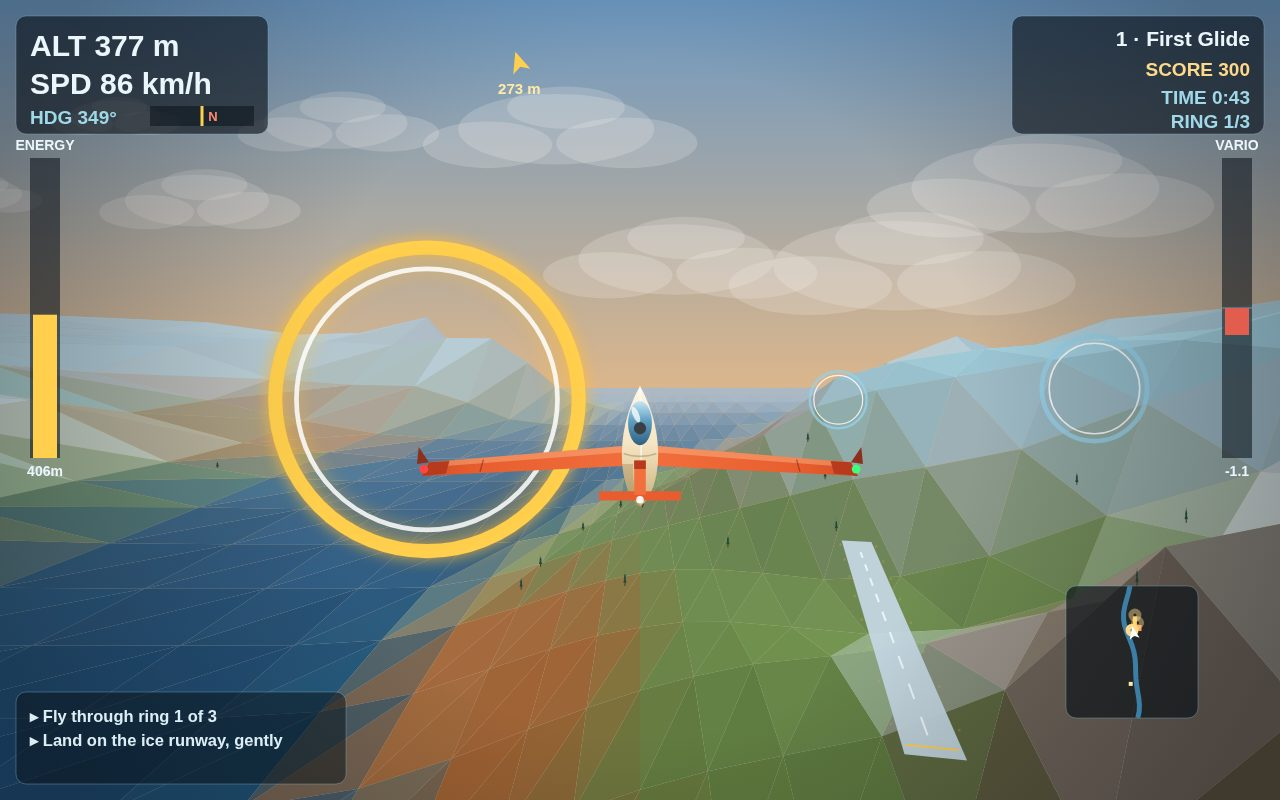
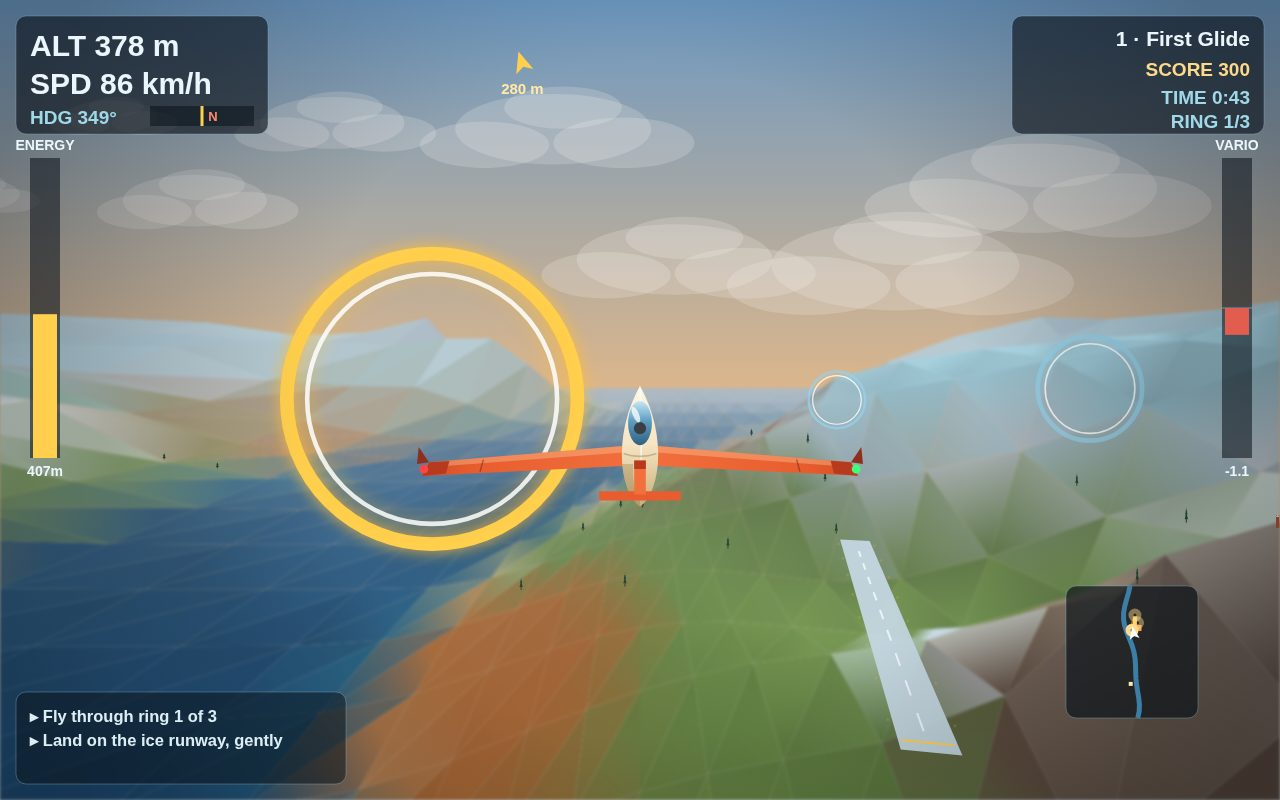
Gouraud gradient terrain shading + soft terrain composite layer

diff --git a/game/src/renderWorld.js b/game/src/renderWorld.js
@@ -12,7 +12,13 @@ const FORWARD_STEPS = [0, 18, 40, 68, 105, 150, 205, 275, 360, 465, 595, 750, 93
 const LATERAL_STEPS = [-3400, -2700, -2150, -1700, -1330, -1040, -800, -605, -455, -340, -240, -160, -95, -45, 0, 45, 95, 160, 240, 340, 455, 605, 800, 1040, 1330, 1700, 2150, 2700, 3400];
 
 export function createRenderer(canvas) {
-  const ctx = canvas.getContext("2d");
+  let ctx = canvas.getContext("2d");
+  // The terrain is painted onto its own layer first, then composited with a
+  // whisper of blur: the last visible facet edges melt into one another
+  // while everything drawn afterwards (trees, runway, glider, HUD) stays
+  // crisp. Browsers without ctx.filter support simply composite it sharp.
+  const terrainCanvas = document.createElement("canvas");
+  const terrainCtx = terrainCanvas.getContext("2d");
   let W = 0;
   let H = 0;
 
@@ -23,6 +29,9 @@ export function createRenderer(canvas) {
     canvas.width = Math.round(W * dpr);
     canvas.height = Math.round(H * dpr);
     ctx.setTransform(dpr, 0, 0, dpr, 0, 0);
+    terrainCanvas.width = canvas.width;
+    terrainCanvas.height = canvas.height;
+    terrainCtx.setTransform(dpr, 0, 0, dpr, 0, 0);
   }
   window.addEventListener("resize", resize);
   resize();
@@ -230,8 +239,39 @@ export function createRenderer(canvas) {
         v.col = blendCol(shadeCol(base, shade), palette.fog, fogT);
       }
     }
-    // Painter's order: far rows first. Each triangle takes the average of
-    // its three corner colours.
+    // Painter's order: far rows first. Near and mid triangles are filled
+    // with a linear gradient from one corner to the midpoint of the opposite
+    // edge (a cheap Gouraud approximation): because neighbouring triangles
+    // share corner colours, the ground shades continuously across edges
+    // instead of stepping from slab to slab. Far triangles sit under heavy
+    // fog, so they take a flat average fill and save the gradient cost.
+    function tri(p1, p2, p3) {
+      const depth = (p1.p.depth + p2.p.depth + p3.p.depth) / 3;
+      if (depth > 2600) {
+        ctx.fillStyle = rgb([
+          (p1.col[0] + p2.col[0] + p3.col[0]) / 3,
+          (p1.col[1] + p2.col[1] + p3.col[1]) / 3,
+          (p1.col[2] + p2.col[2] + p3.col[2]) / 3,
+        ]);
+      } else {
+        const mx = (p2.p.x + p3.p.x) / 2;
+        const my = (p2.p.y + p3.p.y) / 2;
+        const grad = ctx.createLinearGradient(p1.p.x, p1.p.y, mx, my);
+        grad.addColorStop(0, rgb(p1.col));
+        grad.addColorStop(1, rgb([
+          (p2.col[0] + p3.col[0]) / 2,
+          (p2.col[1] + p3.col[1]) / 2,
+          (p2.col[2] + p3.col[2]) / 2,
+        ]));
+        ctx.fillStyle = grad;
+      }
+      ctx.beginPath();
+      ctx.moveTo(p1.p.x, p1.p.y);
+      ctx.lineTo(p2.p.x, p2.p.y);
+      ctx.lineTo(p3.p.x, p3.p.y);
+      ctx.closePath();
+      ctx.fill();
+    }
     for (let i = rows - 2; i >= 0; i--) {
       for (let j = 0; j < cols - 1; j++) {
         const a = verts[i][j];
@@ -239,28 +279,8 @@ export function createRenderer(canvas) {
         const c = verts[i + 1][j + 1];
         const d = verts[i + 1][j];
         if (!a.p || !b.p || !c.p || !d.p) continue;
-        ctx.fillStyle = rgb([
-          (a.col[0] + b.col[0] + c.col[0]) / 3,
-          (a.col[1] + b.col[1] + c.col[1]) / 3,
-          (a.col[2] + b.col[2] + c.col[2]) / 3,
-        ]);
-        ctx.beginPath();
-        ctx.moveTo(a.p.x, a.p.y);
-        ctx.lineTo(b.p.x, b.p.y);
-        ctx.lineTo(c.p.x, c.p.y);
-        ctx.closePath();
-        ctx.fill();
-        ctx.fillStyle = rgb([
-          (a.col[0] + c.col[0] + d.col[0]) / 3,
-          (a.col[1] + c.col[1] + d.col[1]) / 3,
-          (a.col[2] + c.col[2] + d.col[2]) / 3,
-        ]);
-        ctx.beginPath();
-        ctx.moveTo(a.p.x, a.p.y);
-        ctx.lineTo(c.p.x, c.p.y);
-        ctx.lineTo(d.p.x, d.p.y);
-        ctx.closePath();
-        ctx.fill();
+        tri(a, b, c);
+        tri(a, c, d);
       }
     }
   }
@@ -856,7 +876,18 @@ export function createRenderer(canvas) {
     const cam = cameraFor(glider, view);
     const project = makeProjector(cam);
     drawSky(palette, time, glider.heading);
+    // Terrain layer: paint offscreen, then blit it back with a slight blur
+    // over the sky already on the main canvas — the soft edge pixels blend
+    // into the sky beneath them, so the skyline gets no dark fringe.
+    const mainCtx = ctx;
+    terrainCtx.clearRect(0, 0, W, H);
+    ctx = terrainCtx;
     drawTerrain(cam, project, palette, time);
+    ctx = mainCtx;
+    ctx.save();
+    ctx.filter = "blur(1.4px)";
+    ctx.drawImage(terrainCanvas, 0, 0, W, H);
+    ctx.restore();
     drawTrees(project, cam);
     drawRunway(project, palette);
     drawVillage(project, palette);
